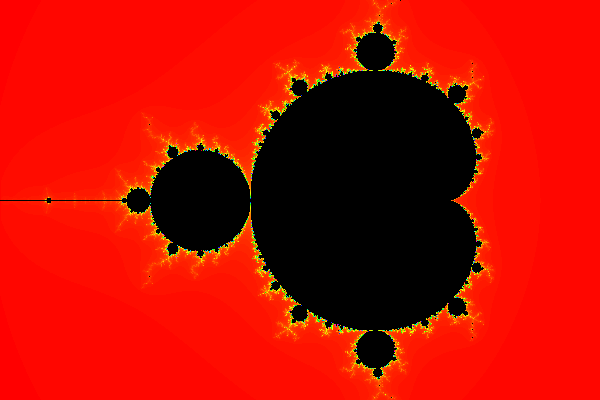
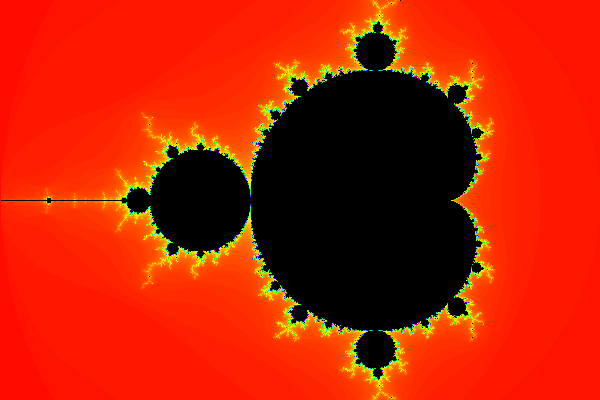
Added images

Changed region(s): [[0.0, 0.0, 0.87, 1.0]]

diff --git a/selecttool.html b/selecttool.html
@@ -6,7 +6,8 @@
         <title>Mandelbrot plotter</title>
         <script>
             function load() {
-                conf = JSON.parse(prompt("Please enter JSON configuration"));
+                CODE_D = prompt("Please enter JSON configuration");
+                conf = JSON.parse(CODE_D);
                 WIDTH_D = conf.WIDTH;
                 HEIGHT_D = conf.HEIGHT;
                 WIDTH_END = conf.WIDTH;

diff --git a/plot_rgb.py b/plot_rgb.py
@@ -6,7 +6,7 @@ import tools
 import json
 import os
 
-MAX_ITER = 500
+MAX_ITER = 450
 
 # Image size (pixels)
 
@@ -17,15 +17,25 @@ RE_END = 1
 IM_START = -1
 IM_END = 1
 
+
+def mandelbrot(c):
+    z = 0
+    n = 0
+    while abs(z) < 2 and n < MAX_ITER:
+        z = z*z + c
+        n += 1
+    if n == MAX_ITER:
+        return MAX_ITER
+    return n + 1 - log(log2(abs(z)))
+"""
 def mandelbrot(c):
     z = 0
     n = 0
     while abs(z) <= 2 and n < MAX_ITER:
         z = z*z + c
         n += 1
-    if n == MAX_ITER:
-        return MAX_ITER
-    return n + 1 - log(log2(abs(z)))
+    return n
+"""
 
 try:
     conf = json.loads(input("Enter JSON configuration: "))
@@ -35,16 +45,14 @@ try:
     RE_END = conf.get("RE_END")
     IM_START = conf.get("IM_START")
     IM_END = conf.get("IM_END")
-    try:
+    if conf.get("FILENAME") is not None:
         filename = conf.get("FILENAME")
         print("JSON filename loaded!")
-    except:
+    else:
         filename = None
-    try:
+    if conf.get("MAX_ITER") is not None:
         MAX_ITER = conf.get("MAX_ITER")
-        print("JSON MAX_ITER loaded!")
-    except:
-        pass
+        print("JSON MAX_ITER loaded, settings MAX_ITER to",str(conf.get("MAX_ITER"))+"!")
     print("JSON conf loaded!")
 except:
     print("Failed to load JSON conf, using default one!")
